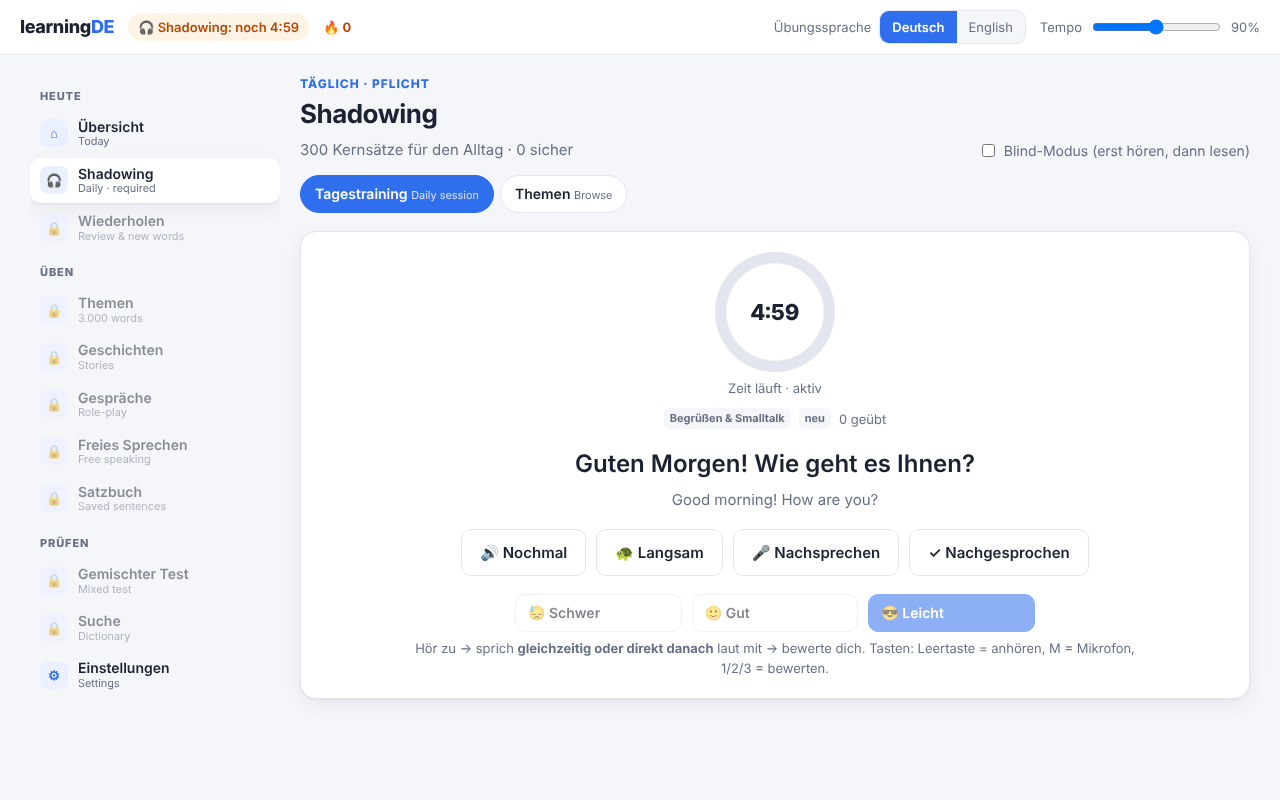
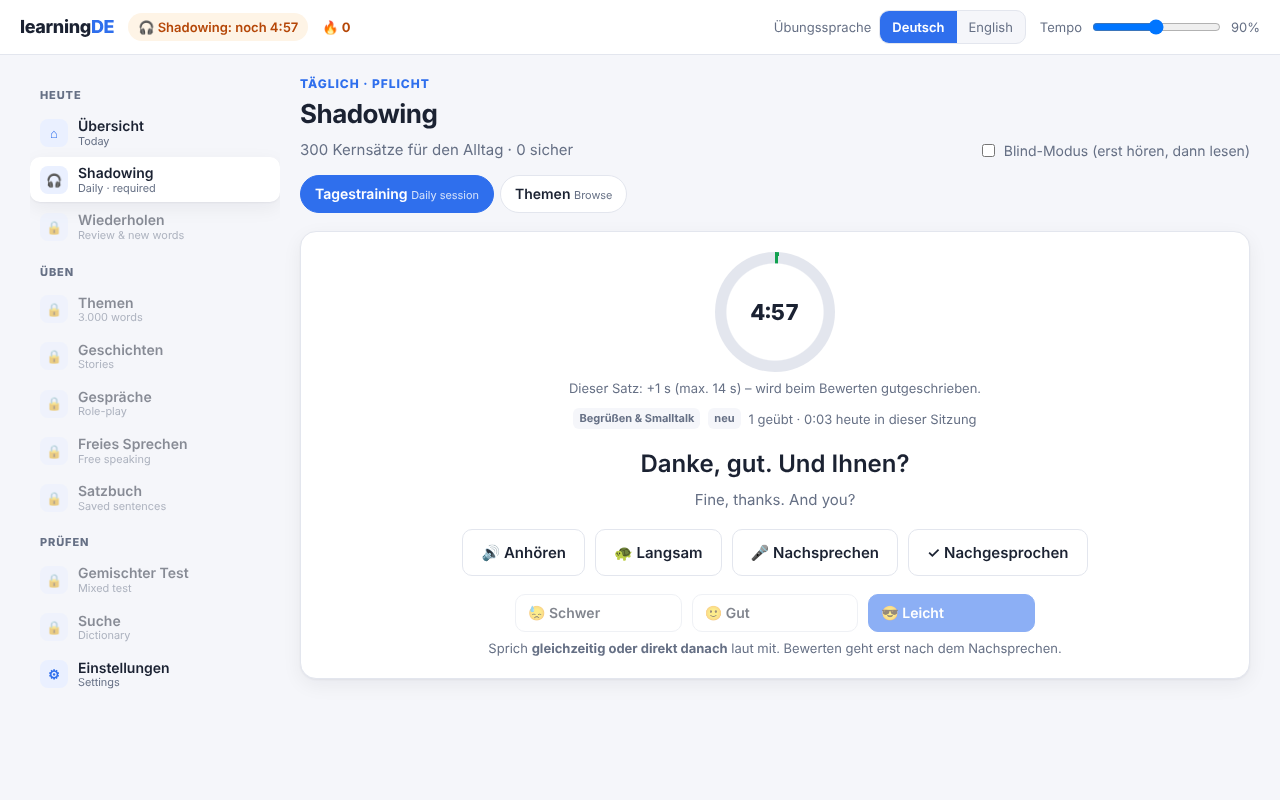
Fix shadowing audio and make the daily timer count only real practice
Audio:
- wait briefly after cancel() before speaking (browsers dropped the utterance)
- keep utterance references and resume() the engine (Chrome stuck/GC bugs)
- start the session with an explicit button so playback has a user gesture
- show a hint when the browser blocks audio or no voice is available
- stop speech when the app goes to the background

Timer:
- nothing runs in the background any more
- per sentence, the time from listening to the self-rating is credited,
  only after the sentence was repeated (mic or check) and capped by length
- header badge updates live; tests cover idle time, crediting and the cap

Claude-Session: https://claude.ai/code/session_01Xcpk3EBERWJ1vDcWQfjKHa

diff --git a/js/components.js b/js/components.js
@@ -104,47 +104,81 @@
   };
 
   /* ---------- shadowing player ----------
-     items: [{id, de, en}], opts.gate = true counts active seconds towards the daily goal,
-     opts.bucket = SRS bucket for ratings ("shadow"), opts.refill() returns more items when the queue runs out. */
+     items: [{id, de, en}]
+     opts.gate   – credit practice time towards the daily goal
+     opts.bucket – SRS bucket for the self-ratings ("shadow")
+     opts.refill – returns more items when the queue runs out
+     Time model: nothing runs in the background. For each sentence the time between the first
+     playback and the rating is credited – but only if the learner repeated the sentence
+     (🎤 or ✓) and rated it, and at most a cap that depends on the sentence length.
+     Doing nothing therefore never fills the daily goal. */
   A.shadowPlayer = (el, items, opts) => {
     opts = opts || {};
-    let queue = items.slice(), cur = null, played = false, spoken = false, lastAction = Date.now(), timer = null, count = 0;
     const p = A.prefs();
-    const touch = () => { lastAction = Date.now(); };
-    function tick() {
-      if (!document.body.contains(el)) { clearInterval(timer); return; }
-      const active = Date.now() - lastAction < 25000 && document.visibilityState === "visible";
-      if (active && opts.gate) A.gate.add(1);
-      const ring = $("#sh-ring", el);
-      if (ring && opts.gate) {
-        const need = A.gate.need(), have = Math.min(need, A.day().sh);
-        ring.style.setProperty("--p", Math.round((100 * have) / need));
-        ring.textContent = A.gate.done() ? "✓" : A.fmtTime(A.gate.left());
-        ring.classList.toggle("paused", !active);
-        $("#sh-state", el).textContent = A.gate.done() ? "Tagesziel erreicht – weiter so!" : active ? "Zeit läuft · aktiv" : "Pausiert – klicke 🔊 oder 🎤, um weiterzumachen";
-      }
+    let queue = items.slice(), cur = null, spoken = false, heard = false, startedAt = 0, count = 0, banked = 0, uiTimer = null;
+    const capFor = (s) => Math.round(Math.min(40, Math.max(12, (s.length * 0.075) / p.rate * 3 + 8)));
+    const pending = () => (startedAt ? Math.min(capFor(cur.de), (Date.now() - startedAt) / 1000) : 0);
+
+    function updateRing() {
+      if (!opts.gate || !document.body.contains(el)) { clearInterval(uiTimer); return; }
+      const ring = $("#sh-ring", el); if (!ring) return;
+      const need = A.gate.need(), have = Math.min(need, A.day().sh);
+      ring.style.setProperty("--p", Math.round((100 * have) / need));
+      ring.textContent = A.gate.done() ? "✓" : A.fmtTime(A.gate.left());
+      const st = $("#sh-state", el);
+      if (A.gate.done()) st.textContent = "Tagesziel erreicht – alles ist freigeschaltet. Weiter so!";
+      else if (!startedAt) st.textContent = "Die Zeit zählt erst, wenn du einen Satz anhörst, nachsprichst und bewertest.";
+      else st.textContent = `Dieser Satz: +${Math.floor(pending())} s (max. ${capFor(cur.de)} s) – wird beim Bewerten gutgeschrieben.`;
     }
-    if (opts.gate) timer = setInterval(tick, 1000);
+
+    function intro() {
+      el.innerHTML = `<div class="shadow-card">
+        ${opts.gate ? `<div class="timer-ring" id="sh-ring">--:--</div><div class="muted" id="sh-state" style="font-size:13px"></div>` : ""}
+        <h2 style="margin:18px 0 6px">Bereit?</h2>
+        <p class="muted" style="max-width:520px;margin:0 auto">So geht's: <b>1.</b> Satz anhören · <b>2.</b> laut nachsprechen (🎤 oder ✓) · <b>3.</b> bewerten.<br>Gezählt wird nur die Zeit, in der du wirklich übst.</p>
+        <div class="shadow-btns"><button class="btn primary big" id="sh-start">▶ Shadowing starten</button></div>
+        <p class="hint">${queue.length} Sätze bereit · Tasten: Leertaste = anhören, M = Mikrofon, 1/2/3 = bewerten</p></div>`;
+      updateRing();
+      $("#sh-start", el).onclick = () => next();
+    }
+
     function next() {
       if (!queue.length && opts.refill) queue = opts.refill();
-      if (!queue.length) { el.innerHTML = `<div class="result"><div class="ring" style="--p:100">✓</div><p><b>Alle Sätze geübt!</b></p></div>`; return; }
-      cur = queue.shift(); played = false; spoken = false; draw(); play();
+      if (!queue.length) { window.onkeydown = null; el.innerHTML = `<div class="result"><div class="ring" style="--p:100">✓</div><p><b>Alle Sätze geübt!</b></p></div>`; return; }
+      cur = queue.shift(); spoken = false; heard = false; startedAt = 0;
+      draw(); play();
     }
+
     async function play(slow) {
-      touch();
-      await A.sayNow(cur.de, "de", slow ? { rate: Math.max(0.55, p.rate - 0.3) } : null);
-      touch();
-      if (!played) { played = true; const s = $(".shadow-sent", el); s && s.classList.remove("blur"); }
+      const playBtn = $("[data-a=play]", el); playBtn && (playBtn.disabled = true);
+      const r = await A.sayNow(cur.de, "de", slow ? { rate: Math.max(0.55, p.rate - 0.3) } : null);
+      if (!document.body.contains(el)) return;
+      playBtn && (playBtn.disabled = false);
+      const msg = $(".tts-msg", el);
+      if (r && r.ok) {
+        if (!startedAt) startedAt = Date.now();
+        heard = true; msg && (msg.innerHTML = "");
+        const sEl = $(".shadow-sent", el); sEl && sEl.classList.remove("blur");
+      } else if (msg) {
+        msg.innerHTML = A.ttsBlocked
+          ? `<span class="badt">Der Browser hat die Wiedergabe blockiert – tippe auf „🔊 Anhören“.</span>`
+          : `<span class="badt">Keine Sprachausgabe gehört? Prüfe die Lautstärke oder installiere eine deutsche Stimme (Einstellungen).</span>`;
+        const sEl = $(".shadow-sent", el); sEl && sEl.classList.remove("blur");
+        if (!startedAt) startedAt = Date.now();
+      }
+      updateRing();
     }
+
     function draw() {
       const lvl = opts.bucket ? A.srs.level(opts.bucket, cur.id) : -1;
       el.innerHTML = `<div class="shadow-card">
-        ${opts.gate ? `<div class="timer-ring" id="sh-ring">--:--</div><div class="muted" id="sh-state" style="font-size:13px">…</div>` : ""}
-        <div class="toolbar" style="justify-content:center">${cur.gt ? `<span class="lvl">${esc(cur.gt)}</span>` : ""}${lvl >= 0 ? `<span class="lvl l${lvl}">Stufe ${lvl}</span>` : opts.bucket ? `<span class="lvl">neu</span>` : ""}<span class="muted" style="font-size:13px">${count} geübt</span></div>
+        ${opts.gate ? `<div class="timer-ring" id="sh-ring">--:--</div><div class="muted" id="sh-state" style="font-size:13px"></div>` : ""}
+        <div class="toolbar" style="justify-content:center">${cur.gt ? `<span class="lvl">${esc(cur.gt)}</span>` : ""}${lvl >= 0 ? `<span class="lvl l${lvl}">Stufe ${lvl}</span>` : opts.bucket ? `<span class="lvl">neu</span>` : ""}<span class="muted" style="font-size:13px">${count} geübt${banked ? ` · ${A.fmtTime(banked)} heute in dieser Sitzung` : ""}</span></div>
         <div class="shadow-sent ${p.blind ? "blur" : ""}">${esc(cur.de)}</div>
         <div class="shadow-en">${esc(cur.en)}</div>
+        <div class="tts-msg"></div>
         <div class="shadow-btns">
-          <button class="btn big" data-a="play">🔊 Nochmal</button>
+          <button class="btn big" data-a="play">🔊 Anhören</button>
           <button class="btn big" data-a="slow">🐢 Langsam</button>
           <button class="mic btn big" data-a="mic">🎤 Nachsprechen</button>
           <button class="btn big" data-a="self">✓ Nachgesprochen</button>
@@ -155,43 +189,52 @@
           <button class="btn" data-g="2" disabled>🙂 Gut</button>
           <button class="btn primary" data-g="3" disabled>😎 Leicht</button>
         </div>
-        <p class="hint">Hör zu → sprich <b>gleichzeitig oder direkt danach</b> laut mit → bewerte dich. Tasten: Leertaste = anhören, M = Mikrofon, 1/2/3 = bewerten.</p>
+        <p class="hint">Sprich <b>gleichzeitig oder direkt danach</b> laut mit. Bewerten geht erst nach dem Nachsprechen.</p>
       </div>`;
-      tick();
+      updateRing();
       const res = $(".res", el);
       const enableRate = () => { spoken = true; $$("[data-g]", el).forEach((b) => (b.disabled = false)); };
       $("[data-a=play]", el).onclick = () => play();
       $("[data-a=slow]", el).onclick = () => play(true);
-      $("[data-a=self]", el).onclick = () => { touch(); enableRate(); };
+      $("[data-a=self]", el).onclick = () => { if (!startedAt) return A.toast("Erst anhören, dann nachsprechen 🙂"); enableRate(); $("[data-a=self]", el).classList.add("primary"); };
       const mic = $("[data-a=mic]", el);
       mic.onclick = async () => {
-        touch();
         if (mic.classList.contains("rec")) { A.stopAll(); return; }
-        if (!A.SR) { res.innerHTML = `<p class="hint">${esc(A.micErr("unsupported"))}</p>`; enableRate(); return; }
+        if (!startedAt) return A.toast("Erst anhören, dann nachsprechen 🙂");
+        if (!A.SR) { res.innerHTML = `<p class="hint">${esc(A.micErr("unsupported"))}</p>`; return; }
         A.stopAll(); mic.classList.add("rec"); mic.textContent = "● Stopp";
         res.innerHTML = `<span class="muted">Ich höre zu … · Listening …</span>`;
-        const keep = setInterval(touch, 3000);
-        try { const t = await A.listen("de", { onInterim: (x) => (res.innerHTML = `<span class="muted">${esc(x)}</span>`) }); res.innerHTML = t ? A.alignHtml(cur.de, t, "Erkannt") : `<span class="muted">${A.micErr("no-speech")}</span>`; if (t) enableRate(); }
-        catch (e) { res.innerHTML = `<span class="badt">${esc(A.micErr(e))}</span>`; if (e === "unsupported" || e === "network" || e === "not-allowed") enableRate(); }
-        finally { clearInterval(keep); mic.classList.remove("rec"); mic.textContent = "🎤 Nachsprechen"; touch(); }
+        try {
+          const t = await A.listen("de", { onInterim: (x) => (res.innerHTML = `<span class="muted">${esc(x)}</span>`) });
+          res.innerHTML = t ? A.alignHtml(cur.de, t, "Erkannt") : `<span class="muted">${A.micErr("no-speech")}</span>`;
+          if (t) enableRate();
+        } catch (e) {
+          res.innerHTML = `<span class="badt">${esc(A.micErr(e))}</span><p class="hint">Du kannst stattdessen laut sprechen und „✓ Nachgesprochen“ klicken.</p>`;
+        } finally { mic.classList.remove("rec"); mic.textContent = "🎤 Nachsprechen"; }
       };
       $$("[data-g]", el).forEach((b) => (b.onclick = () => rate(+b.dataset.g)));
       window.onkeydown = (e) => {
-        if (e.target.tagName === "INPUT") return;
+        if (e.target.tagName === "INPUT" || e.repeat) return;
         if (e.code === "Space") { e.preventDefault(); play(); }
         else if (e.key === "m" || e.key === "M") mic.click();
         else if (["1", "2", "3"].includes(e.key) && spoken) rate(+e.key);
       };
     }
+
     function rate(g) {
-      touch(); count++;
+      if (!spoken) return;
+      const sec = Math.floor(pending());
+      if (opts.gate && sec > 0) { A.gate.add(sec); banked += sec; }
+      count++;
       if (opts.bucket && cur.id) { const wasNew = A.srs.isNew(opts.bucket, cur.id); A.srs.grade(opts.bucket, cur.id, g); if (wasNew) { A.day().shN++; A.save(); } }
       if (g === 1) queue.splice(Math.min(3, queue.length), 0, cur);
       opts.onRate && opts.onRate();
       next();
     }
-    next();
-    return { stop: () => clearInterval(timer) };
+
+    if (opts.gate) uiTimer = setInterval(updateRing, 1000);
+    intro();
+    return { stop: () => { clearInterval(uiTimer); A.stopAll(); } };
   };
 
   /* ---------- speaking list (shadow individual sentences with score) ---------- */

diff --git a/js/core.js b/js/core.js
@@ -119,7 +119,7 @@
     need: () => App.prefs().shadowMin * 60,
     done: () => App.day().sh >= App.gate.need(),
     left: () => Math.max(0, App.gate.need() - App.day().sh),
-    add(sec) { const d = App.day(); const before = d.sh < App.gate.need(); d.sh += sec; App.save(); if (before && d.sh >= App.gate.need()) document.dispatchEvent(new CustomEvent("gate-open")); }
+    add(sec) { const d = App.day(); const before = d.sh < App.gate.need(); d.sh += sec; App.save(); document.dispatchEvent(new CustomEvent("gate-change")); if (before && d.sh >= App.gate.need()) document.dispatchEvent(new CustomEvent("gate-open")); }
   };
   App.streak = () => {
     let n = 0, d = App.today();
@@ -140,26 +140,43 @@
     const good = vs.filter((v) => /google|natural|neural|premium|enhanced|online/i.test(v.name));
     return good.length ? good.concat(vs.filter((v) => !good.includes(v))) : vs;
   };
+  /* Robust wrapper around speechSynthesis:
+     - browsers swallow an utterance spoken right after cancel(), so we wait briefly first
+     - Chrome can get stuck "paused" and garbage-collects utterances (onend never fires) – keep a reference
+     - speaking without a prior user gesture is blocked ("not-allowed") – reported via App.ttsBlocked */
+  const live = new Set();
+  App.ttsBlocked = false;
   App.speak = (text, lang, opts) => {
     opts = opts || {};
-    if (!TTS) { App.toast("Dein Browser unterstützt keine Sprachausgabe."); return Promise.resolve(); }
-    return new Promise((res) => {
+    if (!TTS) { App.toast("Dein Browser unterstützt keine Sprachausgabe."); return Promise.resolve({ ok: false }); }
+    if (!voices.length) loadVoices();
+    const busy = speechSynthesis.speaking || speechSynthesis.pending;
+    return App.wait(busy ? 120 : 0).then(() => new Promise((res) => {
       const u = new SpeechSynthesisUtterance(text);
       u.lang = lang === "de" ? "de-DE" : "en-US";
       const vs = App.voicesFor(lang);
       if (vs.length) u.voice = vs[(opts.voice || 0) % Math.min(vs.length, 3)];
       const rate = opts.rate || App.prefs().rate;
       u.rate = rate;
-      let done = false; const fin = () => { if (!done) { done = true; res(); } };
-      u.onend = fin; u.onerror = fin;
-      setTimeout(fin, Math.max(3000, (text.length * 110) / rate));
+      let done = false, started = false;
+      const fin = (ok) => { if (done) return; done = true; live.delete(u); clearTimeout(guard); res({ ok }); };
+      u.onstart = () => { started = true; App.ttsBlocked = false; };
+      u.onend = () => fin(true);
+      u.onerror = (e) => {
+        if (e && e.error === "not-allowed") { App.ttsBlocked = true; document.dispatchEvent(new CustomEvent("tts-blocked")); }
+        fin(e && (e.error === "interrupted" || e.error === "canceled"));
+      };
+      const guard = setTimeout(() => fin(started), Math.max(4000, (text.length * 120) / rate + 2000));
+      live.add(u);
+      try { speechSynthesis.resume(); } catch (e) { /* ignore */ }
       speechSynthesis.speak(u);
-    });
+    }));
   };
   let tok = 0;
   App.rec = null;
   App.stopAll = () => { tok++; if (TTS) speechSynthesis.cancel(); if (App.rec) { try { App.rec.abort(); } catch (e) { /* ignore */ } App.rec = null; } };
-  App.sayNow = (text, lang, opts) => { App.stopAll(); return App.speak(text, lang, opts); };
+  App.sayNow = (text, lang, opts) => { App.stopAll(); return App.wait(60).then(() => App.speak(text, lang, opts)); };
+  document.addEventListener("visibilitychange", () => { if (document.visibilityState === "hidden") App.stopAll(); });
   /** plays [[text, lang, voice, pauseMs], ...] in order; onStep(i) highlights, -1 at the end */
   App.seq = async (items, onStep) => {
     App.stopAll(); const my = tok;

diff --git a/tests/app.spec.js b/tests/app.spec.js
@@ -12,6 +12,14 @@ async function unlock(page) {
 
 test.beforeEach(async ({ page }) => {
   page.on("pageerror", (err) => { throw err; });
+  // deterministic fake text-to-speech: every utterance "plays" for 50 ms
+  await page.addInitScript(() => {
+    const fake = { speaking: false, pending: false, getVoices: () => [{ name: "Test Deutsch", lang: "de-DE" }, { name: "Test English", lang: "en-US" }],
+      speak(u) { fake.speaking = true; setTimeout(() => { u.onstart && u.onstart(); setTimeout(() => { fake.speaking = false; u.onend && u.onend(); }, 50); }, 5); },
+      cancel() { fake.speaking = false; }, resume() {}, onvoiceschanged: null };
+    Object.defineProperty(window, "speechSynthesis", { value: fake, configurable: true });
+    window.SpeechSynthesisUtterance = function (t) { this.text = t; };
+  });
   await open(page);
   await page.evaluate(() => localStorage.clear());
   await page.reload();
@@ -28,17 +36,41 @@ test.describe("daily shadowing gate", () => {
     await open(page, "home");
     await expect(page.getByText("Dein Tagesplan")).toBeVisible();
     await open(page, "shadow");
+    await page.getByRole("button", { name: "▶ Shadowing starten" }).click();
     await expect(page.locator(".shadow-sent")).toBeVisible();
   });
 
-  test("rating requires repeating first and is stored", async ({ page }) => {
+  test("nothing is counted while the learner does nothing", async ({ page }) => {
     await open(page, "shadow");
+    await page.getByRole("button", { name: "▶ Shadowing starten" }).click();
+    await page.waitForTimeout(2500);
+    expect(await page.evaluate(() => window.App.day().sh)).toBe(0);
+    await expect(page.locator("#gatebar")).toContainText("noch 5:00");
+  });
+
+  test("rating requires repeating first; time is credited only on rating", async ({ page }) => {
+    await open(page, "shadow");
+    await page.getByRole("button", { name: "▶ Shadowing starten" }).click();
     const good = page.getByRole("button", { name: "🙂 Gut" });
     await expect(good).toBeDisabled();
+    await page.waitForTimeout(1500);
     await page.getByRole("button", { name: "✓ Nachgesprochen" }).click();
     await good.click();
-    const graded = await page.evaluate(() => Object.keys(window.App.S.shadow).length);
-    expect(graded).toBe(1);
+    const state = await page.evaluate(() => ({ graded: Object.keys(window.App.S.shadow).length, sh: window.App.day().sh }));
+    expect(state.graded).toBe(1);
+    expect(state.sh).toBeGreaterThanOrEqual(1);
+    expect(state.sh).toBeLessThanOrEqual(40);
+  });
+
+  test("credit per sentence is capped", async ({ page }) => {
+    await open(page, "shadow");
+    await page.getByRole("button", { name: "▶ Shadowing starten" }).click();
+    await expect(page.locator(".shadow-sent")).not.toHaveClass(/blur/);
+    await page.waitForTimeout(300);
+    await page.getByRole("button", { name: "✓ Nachgesprochen" }).click();
+    await page.evaluate(() => { const real = Date.now; Date.now = () => real() + 10 * 60 * 1000; });
+    await page.getByRole("button", { name: "🙂 Gut" }).click();
+    expect(await page.evaluate(() => window.App.day().sh)).toBeLessThanOrEqual(40);
   });
 
   test("unlocks everything once the goal is reached", async ({ page }) => {

diff --git a/js/app.js b/js/app.js
@@ -45,11 +45,13 @@
     $("#rate").oninput = (e) => { A.setPref("rate", +e.target.value); $("#rateV").textContent = Math.round(+e.target.value * 100) + "%"; };
   }
 
+  document.addEventListener("gate-change", () => A.renderChrome());
+  let blockedShown = false;
+  document.addEventListener("tts-blocked", () => { if (!blockedShown) { blockedShown = true; A.toast("🔇 Ton blockiert – tippe einmal auf „🔊 Anhören“."); } });
   document.addEventListener("gate-open", () => {
     A.toast("🎉 Tagesziel erreicht! Alles ist freigeschaltet.");
     A.renderChrome();
   });
-  setInterval(() => { if (!A.gate.done()) A.renderChrome(); }, 5000);
   document.addEventListener("voices", () => { if ((location.hash || "").includes("settings")) A.route(); });
   window.addEventListener("hashchange", A.route);
   /* offline support + "install app" button (only when served over http/https) */

diff --git a/sw.js b/sw.js
@@ -1,5 +1,5 @@
 /* Generated by scripts/build-sw.mjs – do not edit by hand. */
-const CACHE = "learningde-3be270b412";
+const CACHE = "learningde-778791d6ce";
 const FILES = [
   "./",
   "index.html",

diff --git a/README.md b/README.md
@@ -17,14 +17,14 @@ Most apps teach isolated words. learningDE is built around four methods that res
 
 | Method | What it means here |
 | --- | --- |
-| **Shadowing** | Listen to a native-speed sentence and repeat it out loud at the same time or right after. Trains pronunciation, rhythm and listening at once. **At least 5 minutes every day are mandatory** – the rest of the app stays locked until you've done them. |
+| **Shadowing** | Listen to a native-speed sentence and repeat it out loud at the same time or right after. Trains pronunciation, rhythm and listening at once. **At least 5 minutes of real practice every day are mandatory** – the rest of the app stays locked until you've done them. |
 | **Spaced repetition** | Every word and every core sentence lives in a Leitner box. Hard items come back tomorrow, easy ones in a week, then a month. |
 | **Comprehensible input** | A 10-episode story series and themed texts just above your level. Tap any underlined word to see its meaning. |
 | **Output** | Role-play real conversations (you speak your part, the app plays the others), dictation, free speaking against a 90-second timer. |
 
 ## Features
 
-- 🎧 **Daily shadowing gate** – 300 core everyday sentences in 15 situations (doctor, landlord, Bürgeramt, phone, meetings, IT team …). Only *active* time counts: the timer pauses if you stop interacting.
+- 🎧 **Daily shadowing gate** – 300 core everyday sentences in 15 situations (doctor, landlord, Bürgeramt, phone, meetings, IT team …). Only real practice counts: for each sentence the time from listening to your self-rating is credited – and only after you repeated it (🎤 or ✓), capped by sentence length. Leaving the app open does nothing.
 - 📚 **3,017 words in 32 themes** – about 2,000 general B2 words and 1,000 IT words, each with article colour, plural, an example sentence and its English translation.
 - 🇬🇧 **German ↔ English throughout** – every word and sentence can be heard in both languages. Switch the *practice language* to English to train dictation, speaking and flashcards in English too.
 - 🇹🇷 **Turkish only where it helps** – 435 complex words (bureaucracy, idioms, long compounds) also have a Turkish gloss.
